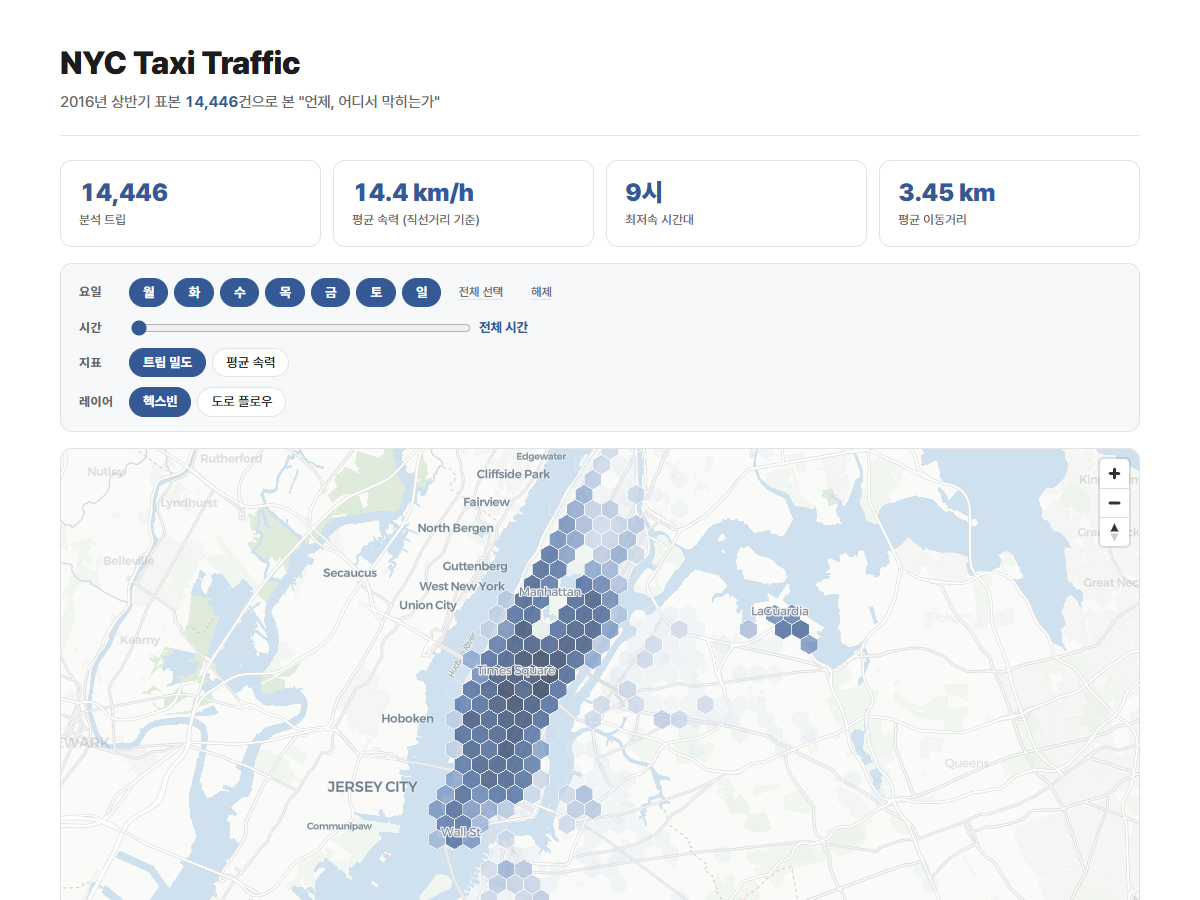
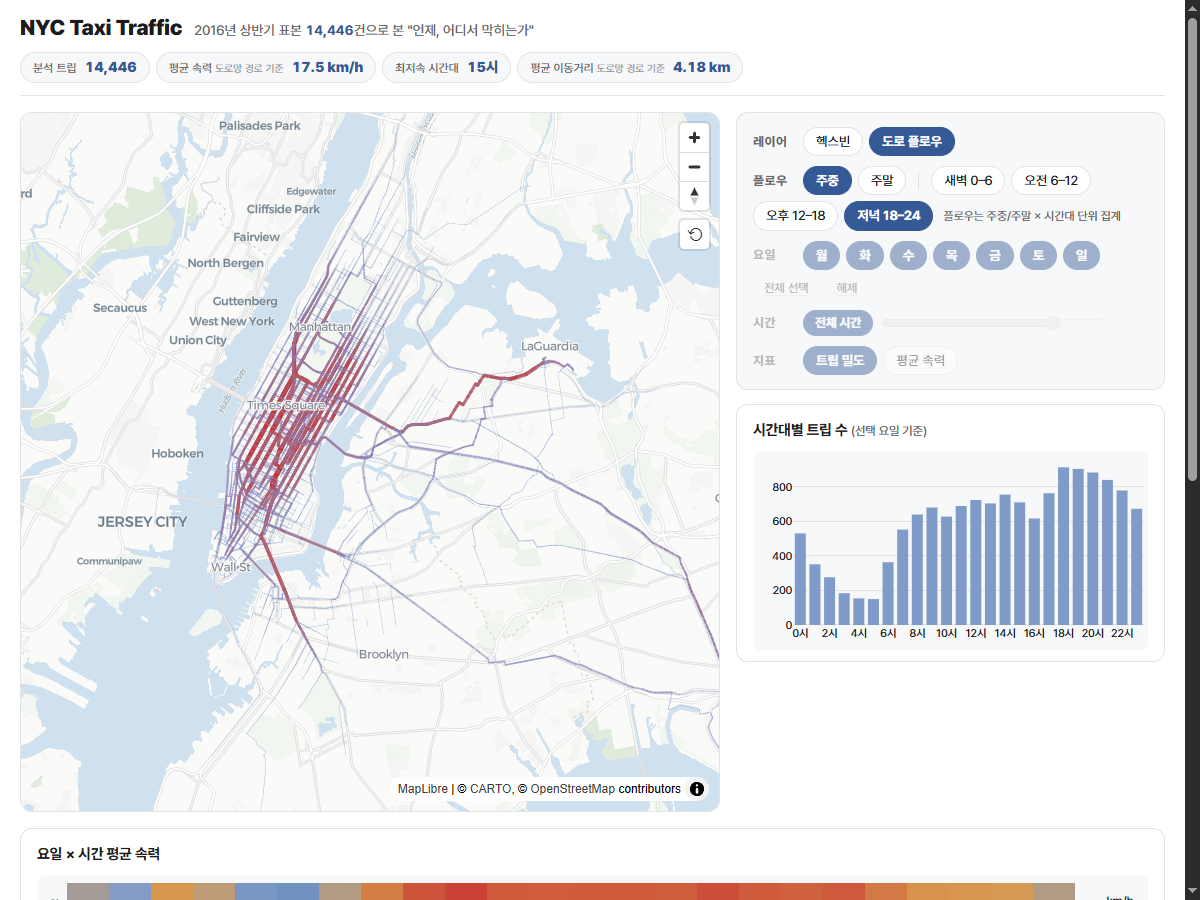
feat: 헥스 동적 스케일·촘촘화, 플로우 청적 발산 색, 히트맵 반전·정방 셀, 도로망 속력 수치 반영

diff --git a/docs/js/main.js b/docs/js/main.js
@@ -10,9 +10,9 @@ let LANDMARKS = null;
 let map = null;
 let mapReady = false;
 
-// ---------- 헥스빈 (pointy-top axial, ~350m) ----------
+// ---------- 헥스빈 (pointy-top axial, ~240m) ----------
 const COS0 = Math.cos(40.75 * Math.PI / 180);
-const R_HEX = 0.0032;
+const R_HEX = 0.0022;
 
 function hexKey(lat, lon) {
   const x = lon * COS0 / R_HEX, y = lat / R_HEX;
@@ -57,21 +57,51 @@ function aggregate() {
 }
 
 // ---------- 색상 표현식 ----------
-const FILL_COLOR = {
-  count: ["interpolate", ["linear"], ["get", "n"],
-    1, "#dbe4f0", 20, "#7f9cc9", 80, "#345995", 300, "#16294d"],
-  speed: ["interpolate", ["linear"], ["get", "speed"],
-    5, "#a63232", 12, "#d99a4e", 20, "#7f9cc9", 35, "#2e7d52"],
-};
+// 속력: 도로망 최단경로 거리 기준 값에 맞춘 고정 스톱
+const FILL_SPEED = ["interpolate", ["linear"], ["get", "speed"],
+  7, "#a63232", 15, "#d99a4e", 22, "#7f9cc9", 34, "#2e7d52"];
+
+// 밀도: 고정 스톱이면 희소 선택(특정 요일+시간)에서 최저색으로 뭉개짐 →
+// refresh()마다 셀 n값 분위수(p50/p85/p98)로 스톱을 동적 구성
+const COUNT_PALETTE = ["#dbe4f0", "#7f9cc9", "#345995", "#16294d"];
+let fillCount = ["interpolate", ["linear"], ["get", "n"], 1, COUNT_PALETTE[0], 2, COUNT_PALETTE[3]];
+
+function quantileSorted(sorted, p) {
+  const idx = (sorted.length - 1) * p;
+  const lo = Math.floor(idx), hi = Math.ceil(idx);
+  return sorted[lo] + (sorted[hi] - sorted[lo]) * (idx - lo);
+}
+
+function buildCountColor(fc) {
+  const ns = fc.features.map((f) => f.properties.n).sort((a, b) => a - b);
+  const max = ns.length ? ns[ns.length - 1] : 0;
+  if (max > 1) {
+    const stops = [1, quantileSorted(ns, 0.5), quantileSorted(ns, 0.85), quantileSorted(ns, 0.98)];
+    if (stops.every((s, i) => i === 0 || s > stops[i - 1])) {
+      return ["interpolate", ["linear"], ["get", "n"],
+        stops[0], COUNT_PALETTE[0], stops[1], COUNT_PALETTE[1],
+        stops[2], COUNT_PALETTE[2], stops[3], COUNT_PALETTE[3]];
+    }
+  }
+  // 퇴화 케이스(셀 수 적거나 스톱 겹침): [1, max] 2스톱 폴백으로 최소 대비 보장
+  return ["interpolate", ["linear"], ["get", "n"], 1, COUNT_PALETTE[0], Math.max(max, 2), COUNT_PALETTE[3]];
+}
+
+function currentFillColor() {
+  return state.metric === "speed" ? FILL_SPEED : fillCount;
+}
 
 // ---------- 플로우 레이어 ----------
 const flowCache = {}; // wp+band → GeoJSON (lazy fetch)
 let flowReq = 0;      // 최신 요청만 반영하기 위한 시퀀스
 
+// "두꺼울수록 붉게, 얇을수록 파랗고 흐리게" — 통행량 청→적 발산 색 + 투명도 그라데이션
 const FLOW_LINE_COLOR = ["interpolate", ["linear"], ["get", "n"],
-  3, "#9db4d6", 30, "#345995", 120, "#16294d"];
+  3, "#7fa3d1", 20, "#8a7fb8", 60, "#b0596a", 150, "#c73030"];
 const FLOW_LINE_WIDTH = ["interpolate", ["linear"], ["get", "n"],
   3, 0.5, 20, 1.6, 60, 3, 150, 5];
+const FLOW_LINE_OPACITY = ["interpolate", ["linear"], ["get", "n"],
+  3, 0.45, 30, 0.75, 100, 0.95];
 
 // 플로우 모드에서는 요일·시간·지표 필터가 무의미 → disabled 시각 처리
 function setHexControlsDisabled(disabled) {
@@ -141,6 +171,13 @@ const DAY_LABELS = ["월", "화", "수", "목", "금", "토", "일"];
 // 요일×시간 평균 속력 히트맵 — 필터와 무관한 전역 패턴 (1회만 렌더)
 function renderHeatChart() {
   if (!window.Plotly) return;
+
+  // 24열×7행 셀이 정사각형에 가깝도록 컨테이너 높이를 플롯 폭에 맞춰 산정
+  // (좌우 여백 l30+r4 + 컬러바 ~66px ≈ 100, 상하 여백 t8+b26 = 34)
+  const el = document.getElementById("chart-heat");
+  const w = el.clientWidth || 1100;
+  el.style.height = Math.max(200, Math.round((w - 100) * 7 / 24) + 34) + "px";
+
   const { dow, hr, v } = TRIPS;
   const sum = Array.from({ length: 7 }, () => new Array(24).fill(0));
   const cnt = Array.from({ length: 7 }, () => new Array(24).fill(0));
@@ -156,7 +193,7 @@ function renderHeatChart() {
     x: [...Array(24).keys()],
     y: DAY_LABELS,
     customdata: cnt,
-    colorscale: [[0, "#a63232"], [0.35, "#d99a4e"], [0.7, "#7f9cc9"], [1, "#2e7d52"]],
+    colorscale: [[0, "#c73030"], [0.4, "#d99a4e"], [0.75, "#7f9cc9"], [1, "#2e5f95"]],
     colorbar: { title: { text: "km/h", side: "top" }, thickness: 10, outlinewidth: 0, tickfont: { size: 10 } },
     hovertemplate: "%{y}요일 %{x}시 · 평균 %{z} km/h · 표본 %{customdata}건<extra></extra>",
   }], {
@@ -247,13 +284,15 @@ function initMap() {
       }
     } catch (e) { /* 스타일 탐색 실패도 무시하고 진행 */ }
 
-    map.addSource("hex", { type: "geojson", data: aggregate() });
+    const hexFc = aggregate();
+    fillCount = buildCountColor(hexFc);
+    map.addSource("hex", { type: "geojson", data: hexFc });
     map.addLayer({
       id: "hex",
       type: "fill",
       source: "hex",
       paint: {
-        "fill-color": FILL_COLOR[state.metric],
+        "fill-color": currentFillColor(),
         "fill-opacity": ["case", ["==", ["get", "faint"], 1], 0.25, 0.72],
         "fill-outline-color": "#ffffff",
       },
@@ -269,7 +308,7 @@ function initMap() {
       paint: {
         "line-color": FLOW_LINE_COLOR,
         "line-width": FLOW_LINE_WIDTH,
-        "line-opacity": 0.85,
+        "line-opacity": FLOW_LINE_OPACITY,
       },
     });
 
@@ -329,7 +368,14 @@ function initMap() {
 
 // ---------- 갱신 ----------
 function refresh() {
-  if (mapReady && map.getSource("hex")) map.getSource("hex").setData(aggregate());
+  const fc = aggregate();
+  fillCount = buildCountColor(fc); // 밀도 스케일을 현재 선택의 분위수로 재산정
+  if (mapReady && map.getSource("hex")) {
+    map.getSource("hex").setData(fc);
+    if (state.metric === "count" && map.getLayer("hex")) {
+      map.setPaintProperty("hex", "fill-color", fillCount);
+    }
+  }
   if (window.updateCharts) window.updateCharts();
 }
 window.__refresh = refresh;
@@ -392,7 +438,7 @@ function bindControls() {
       if (state.metric === btn.dataset.metric) return;
       state.metric = btn.dataset.metric;
       document.querySelectorAll(".ctl-metric button[data-metric]").forEach((b) => b.classList.toggle("on", b === btn));
-      if (mapReady && map.getLayer("hex")) map.setPaintProperty("hex", "fill-color", FILL_COLOR[state.metric]);
+      if (mapReady && map.getLayer("hex")) map.setPaintProperty("hex", "fill-color", currentFillColor());
     });
   });
 

diff --git a/docs/index.html b/docs/index.html
@@ -15,9 +15,9 @@
   </div>
   <div id="kpis" class="kpis">
     <div class="kpi"><span class="kpi-label">분석 트립</span><span class="kpi-value" id="kpi-total">—</span></div>
-    <div class="kpi"><span class="kpi-label">평균 속력<i>직선거리 기준</i></span><span class="kpi-value" id="kpi-speed">—</span></div>
+    <div class="kpi"><span class="kpi-label">평균 속력<i>도로망 경로 기준</i></span><span class="kpi-value" id="kpi-speed">—</span></div>
     <div class="kpi"><span class="kpi-label">최저속 시간대</span><span class="kpi-value" id="kpi-slowest">—</span></div>
-    <div class="kpi"><span class="kpi-label">평균 이동거리</span><span class="kpi-value" id="kpi-dist">—</span></div>
+    <div class="kpi"><span class="kpi-label">평균 이동거리<i>도로망 경로 기준</i></span><span class="kpi-value" id="kpi-dist">—</span></div>
   </div>
 </header>
 
@@ -68,16 +68,16 @@
 <section class="notes" id="insights">
   <h2>관찰</h2>
   <ul>
-    <li><b>오전 9시가 가장 느리다</b> — 시간대 평균 속력 최저(11.8 km/h). 새벽 5시(24.5 km/h)의 절반에 못 미치는 수준이며, 오후 3시(11.8 km/h)도 사실상 같은 값. 심야(0–5시) 평균 19.2 km/h vs 주간(8–18시) 12.4 km/h.</li>
+    <li><b>오후 3시가 가장 느리다</b> — 시간대 평균 속력 최저(14.4 km/h). 오전 9시(14.5 km/h)와 사실상 동률로, 출근 피크만큼 오후 중반도 막힌다는 뜻. 최고인 새벽 5시(30.0 km/h)의 절반 이하. 심야(0–5시) 평균 23.4 km/h vs 주간(8–18시) 15.2 km/h.</li>
     <li><b>트립은 퇴근길에 몰린다</b> — 18시 912건, 19시 903건으로 피크. 최저는 새벽 5시 150건으로 피크의 약 1/6. 시간대별 트립 수 차트에서 그대로 확인 가능.</li>
-    <li><b>주말이 주중보다 빠르다</b> — 평균 속력 주말 15.5 km/h vs 주중 13.9 km/h. 주말은 심야 0–2시 트립 비중이 14.2%로 주중(5.5%)의 2.6배 — 빠른 심야 트립이 평균을 끌어올린 몫도 있다.</li>
-    <li><b>장거리 트립은 고속도로 효과</b> — 직선거리 상위 10%(7.5 km 이상, 평균 12.9 km) 트립의 평균 속력은 24.7 km/h로 나머지(13.2 km/h)의 약 2배. 이 장거리 트립의 25.0%는 JFK, 32.8%는 라과디아를 오가는 트립 — 도로 플로우 레이어에서 공항 방면 간선이 굵게 잡히는 이유.</li>
+    <li><b>주말이 주중보다 빠르다</b> — 평균 속력 주말 18.9 km/h vs 주중 17.0 km/h. 주말은 심야 0–2시 트립 비중이 14.2%로 주중(5.5%)의 2.6배 — 빠른 심야 트립이 평균을 끌어올린 몫도 있다.</li>
+    <li><b>장거리 트립은 고속도로 효과</b> — 도로망 거리 상위 10%(9.0 km 이상, 평균 15.4 km) 트립의 평균 속력은 29.4 km/h로 나머지(16.2 km/h)의 약 1.8배. 이 장거리 트립의 25.0%는 JFK, 35.5%는 라과디아를 오가는 트립 — 도로 플로우 레이어에서 공항 방면 간선이 굵게 잡히는 이유.</li>
   </ul>
 </section>
 
 <footer class="foot">
-  <p><b>데이터</b> — Kaggle NYC Taxi Trip Duration 데이터의 표본 14,587건(2016-01~2016-06) 중 정제 후 14,446건 사용. 제거 141건: NYC 대역 밖 좌표, 60초 미만, 직선거리 0.05km 이하·60km 초과, 직선거리 기준 속력 120km/h 초과. 원본 CSV는 리포지토리에 동봉.</p>
-  <p><b>한계</b> — 속력은 haversine 직선거리 기준의 하한 추정치. 도로 플로우의 경로는 OSM 도로망 최단경로 추정으로 실주행 경로가 아님. 2016년 표본이므로 현재 교통 상황과 다를 수 있음.</p>
+  <p><b>데이터</b> — Kaggle NYC Taxi Trip Duration 데이터의 표본 14,587건(2016-01~2016-06) 중 정제 후 14,446건 사용. 제거 141건: NYC 대역 밖 좌표, 60초 미만, 직선거리 0.05km 이하·60km 초과, 직선거리 기준 속력 120km/h 초과. 속력·거리는 OSM 도로망 최단경로 길이 기준(14,339건), 미라우팅 107건은 직선거리 기준. 원본 CSV는 리포지토리에 동봉.</p>
+  <p><b>한계</b> — 속력은 도로망 최단경로 길이 기준 — 실주행 경로보다 짧거나 같으므로 여전히 하한 추정치. 도로 플로우의 경로도 최단경로 추정으로 실주행 경로가 아님. 2016년 표본이므로 현재 교통 상황과 다를 수 있음.</p>
   <p><b>제작</b> — Claude Code와의 페어링으로 설계·구현. <a href="https://github.com/HollyRiver/NYCTaxiDash">GitHub</a> · © 2026 Shinsung Kang</p>
 </footer>
 

diff --git a/docs/css/style.css b/docs/css/style.css
@@ -324,9 +324,10 @@ body {
   border-radius: 8px;
 }
 
-/* 전체 폭 히트맵: 24×7 셀이 정사각형에 가깝도록 낮고 넓게 */
+/* 전체 폭 히트맵: 24×7 셀이 정사각형에 가깝도록 —
+   정확한 높이는 renderHeatChart()가 플롯 폭 기준으로 재산정 (아래는 no-JS 폴백) */
 #chart-heat {
-  height: 260px;
+  height: 340px;
   background: var(--bg-soft);
   border-radius: 8px;
 }

diff --git a/README.md b/README.md
@@ -12,19 +12,19 @@ NYC 택시 운행 데이터로 "언제, 어디서 막히는가"에 답하는 인
 
 | 레이어 | 인터랙션 범위 | 방식 |
 |---|---|---|
-| **헥스빈 지도** (~350m 셀) | 요일 멀티선택 × 시간 슬라이더 — 전 조합 | 원본 전량(슬림 JSON)을 브라우저에서 실시간 재집계 |
-| **도로 플로우 지도** | 주중/주말 × 시간대 4구간(새벽/오전/오후/저녁) — 8슬라이스 | osmnx 최단경로 14,366건을 빌드 타임에 사전 집계 |
+| **헥스빈 지도** (~240m 셀) | 요일 멀티선택 × 시간 슬라이더 — 전 조합 | 원본 전량(슬림 JSON)을 브라우저에서 실시간 재집계 |
+| **도로 플로우 지도** | 주중/주말 × 시간대 4구간(새벽/오전/오후/저녁) — 8슬라이스 | osmnx 최단경로 14,339건을 빌드 타임에 사전 집계 |
 
-- 헥스빈은 트립 밀도 / 평균 속력 지표 전환 가능, 표본 5건 미만 셀은 반투명 처리
-- 도로 플로우는 통행량을 선 굵기·밝기로 표현
+- 헥스빈은 트립 밀도 / 평균 속력 지표 전환 가능, 표본 5건 미만 셀은 반투명 처리. 밀도 색상 스케일은 선택된 요일·시간 슬라이스의 분위수(p50/p85/p98)로 매번 동적 구성 — 희소 선택에서도 대비 유지
+- 도로 플로우는 통행량을 선 굵기 + 청→적 발산 색으로 표현 (두꺼울수록 붉게, 얇을수록 파랗고 흐리게)
 - Plotly 차트 2종: 요일×시간 평균 속력 히트맵(전역), 시간대별 트립 수(선택 요일 연동)
 
 ## 주요 관찰
 
-- **오전 9시가 가장 느리다** — 시간대 평균 속력 최저 11.8 km/h. 심야(0–5시) 19.2 km/h vs 주간(8–18시) 12.4 km/h.
+- **오후 3시가 가장 느리다** — 시간대 평균 속력 최저 14.4 km/h, 오전 9시(14.5 km/h)와 사실상 동률. 심야(0–5시) 23.4 km/h vs 주간(8–18시) 15.2 km/h.
 - **트립은 퇴근길에 몰린다** — 18시 912건 피크. 최저인 새벽 5시(150건)의 약 6배.
-- **주말이 주중보다 빠르다** — 주말 15.5 km/h vs 주중 13.9 km/h (+1.6 km/h). 주말의 심야 트립 비중(14.2%)이 평균을 끌어올린 몫도 있음.
-- **장거리 트립은 고속도로 효과** — 직선거리 상위 10%(평균 12.9 km)의 평균 속력 24.7 km/h로 나머지(13.2 km/h)의 약 2배. 이 중 25.0%는 JFK, 32.8%는 라과디아 공항행.
+- **주말이 주중보다 빠르다** — 주말 18.9 km/h vs 주중 17.0 km/h (+1.9 km/h). 주말의 심야 0–2시 트립 비중(14.2%, 주중 5.5%의 2.6배)이 평균을 끌어올린 몫도 있음.
+- **장거리 트립은 고속도로 효과** — 도로망 거리 상위 10%(9.0 km 이상, 평균 15.4 km)의 평균 속력 29.4 km/h로 나머지(16.2 km/h)의 약 1.8배. 이 중 25.0%는 JFK, 35.5%는 라과디아 공항행.
 
 ## 데이터와 정제 기준
 
@@ -37,9 +37,11 @@ NYC 택시 운행 데이터로 "언제, 어디서 막히는가"에 답하는 인
 - 직선거리 0.05 km 이하 또는 60 km 초과
 - 직선거리 기준 평균 속력 120 km/h 초과
 
+속력·거리 지표는 **OSM 도로망 최단경로 길이 기준**(14,446건 중 라우팅 성공 14,339건). 미라우팅 107건은 직선거리 기준 유지. 평균 속력 17.5 km/h, 평균 이동거리 4.18 km.
+
 ## 한계
 
-1. **속력은 하한 추정치** — haversine 직선거리 / 소요시간 기준. 실주행 거리는 더 길므로 실제 속력은 이보다 높음.
+1. **속력은 하한 추정치** — 도로망 최단경로 길이 / 소요시간 기준. 최단경로는 실주행 경로보다 짧거나 같으므로 실제 속력은 이보다 높을 수 있음.
 2. **최단경로 ≠ 실주행 경로** — 도로 플로우는 OSM 도로망 최단경로로 추정한 것이며 기사가 실제 택한 경로가 아님.
 3. **2016년 표본** — 현재 교통 상황과 다를 수 있음.
 
